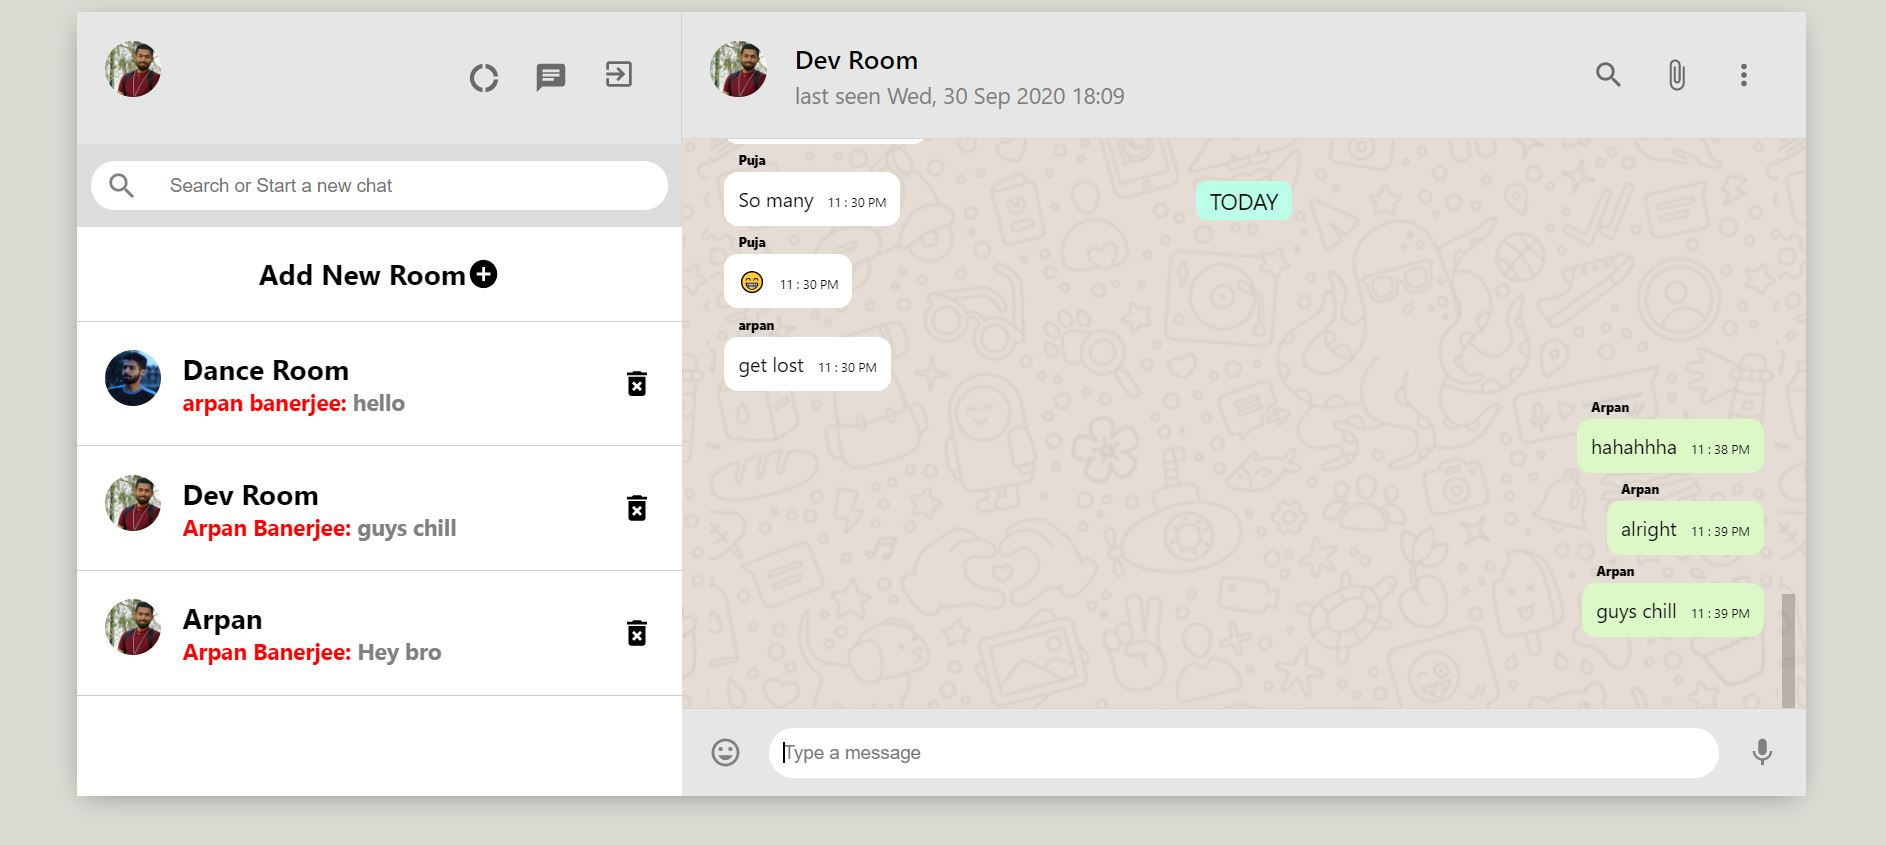
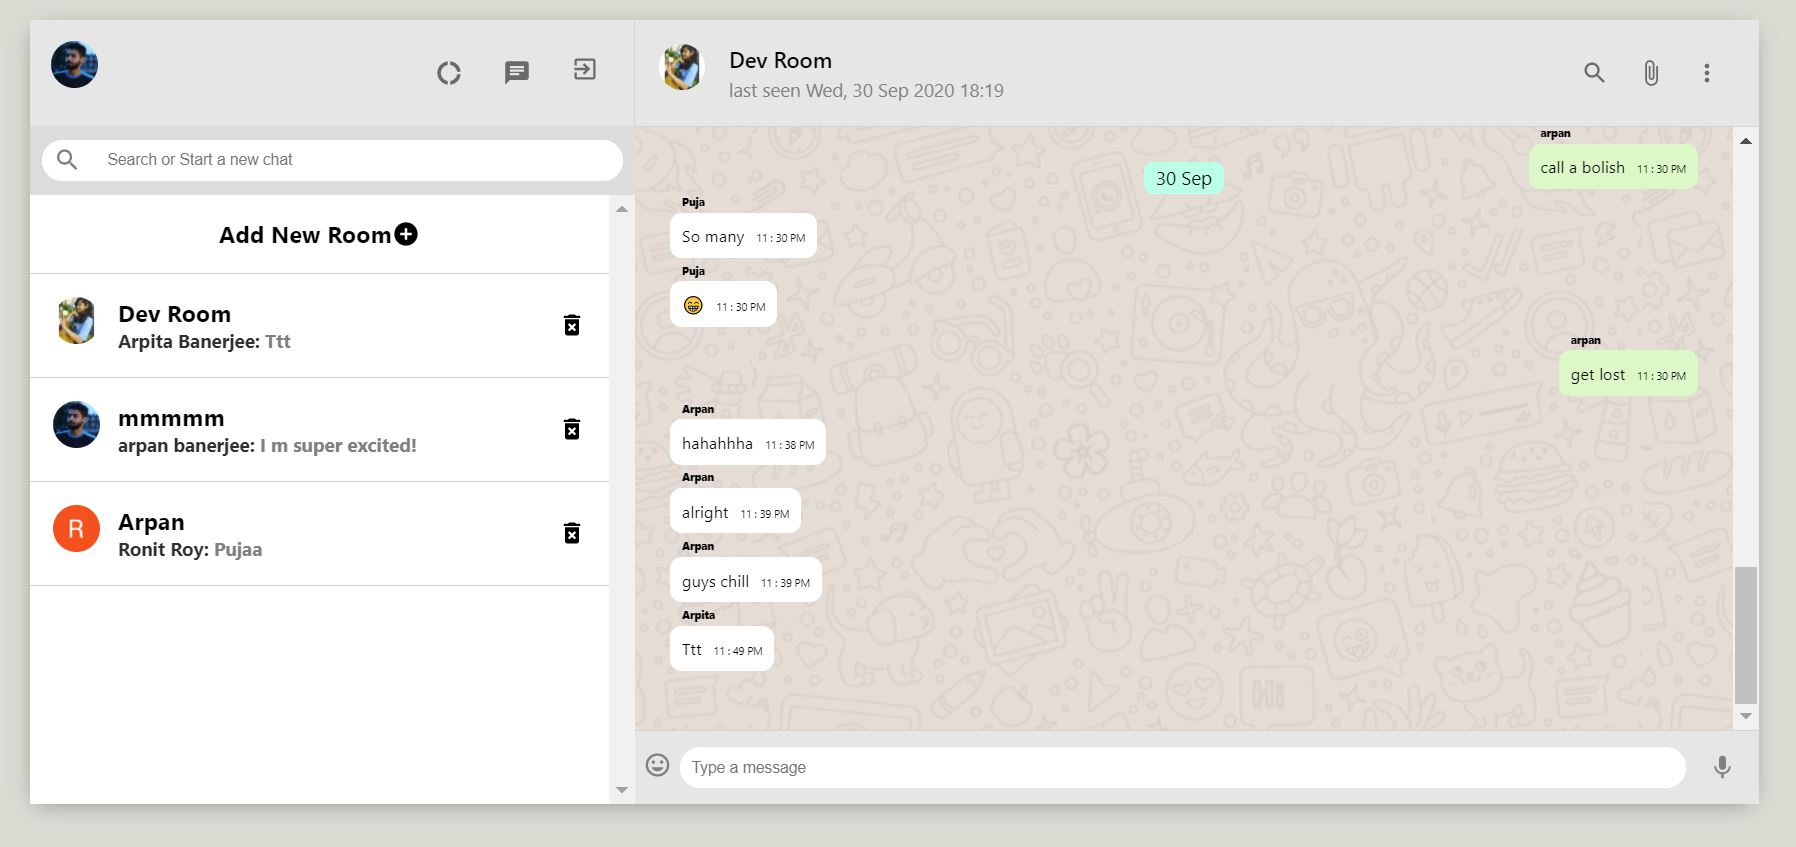
made some styling changes

Changed region(s): [[0.0, 0.0, 0.9978, 0.9538], [0.6236, 0.1846, 0.686, 0.2769]]

diff --git a/src/Sidebar.css b/src/Sidebar.css
@@ -1,96 +1,94 @@
-.sidebar{
-    display: flex;
-    flex-direction: column;
-    flex: 0.35;
+.sidebar {
+  display: flex;
+  flex-direction: column;
+  flex: 0.35;
 }
-.sidebar__header{
-    display: flex;
-    justify-content: space-between;
-    padding: 20px;
-    border-right: 1px solid lightgray;
+.sidebar__header {
+  display: flex;
+  justify-content: space-between;
+  padding: 18px;
+  border-right: 1px solid lightgray;
 }
-.sidebar__search{
-    display: flex;
-    align-items: center;
-    background-color: #dadadace;
-    height: 39px;
-    padding: 10px;
+.sidebar__search {
+  display: flex;
+  align-items: center;
+  background-color: #dadadace;
+  height: 39px;
+  padding: 10px;
 }
-.sidebar__searchContainer{
-    display: flex;
-    align-items: center;
-    background-color: white;
-    width: 100%;
-    height:35px;
-    border-radius:20px;
+.sidebar__searchContainer {
+  display: flex;
+  align-items: center;
+  background-color: white;
+  width: 100%;
+  height: 35px;
+  border-radius: 20px;
 }
-.sidebar__searchContainer .MuiSvgIcon-root{
-    color: gray;
-    padding: 10px;
+.sidebar__searchContainer .MuiSvgIcon-root {
+  color: gray;
+  padding: 10px;
 }
-.sidebar__searchContainer input{
-    border:none;
-    margin-left: 10px;
-    width: 80%;
- 
+.sidebar__searchContainer input {
+  border: none;
+  margin-left: 10px;
+  width: 80%;
 }
-.sidebar__searchContainer input:focus{
-    border: none;
-    outline: none;
+.sidebar__searchContainer input:focus {
+  border: none;
+  outline: none;
 }
-.sidebar__headerRight{
-    display: flex;
-    align-items: center;
-    justify-content: space-between;
-    min-width: 10vw;
+.sidebar__headerRight {
+  display: flex;
+  align-items: center;
+  justify-content: space-between;
+  min-width: 10vw;
 }
-.sidebar__headerRight  >.MuiSvgIcon-root{
-    margin-right:2vw;
-    font-size: 24px !important;
+.sidebar__headerRight > .MuiSvgIcon-root {
+  margin-right: 2vw;
+  font-size: 24px !important;
 }
-.sidebar__chats{
+.sidebar__chats {
+  flex: 1;
+  background-color: white;
+  overflow: scroll;
+  position: relative;
+  overflow-x: hidden;
+}
+.hide__sidebar {
+  display: none;
+}
+.siderbar__wrapper {
+  display: flex;
+}
+.sidebar__greeting {
+  font-size: 14px;
+  font-weight: bolder;
+  color: red;
+}
+.mobile__tag {
+  color: white !important;
+  font-size: 10px;
+}
+@media (max-width: 628px) {
+  .sidebar {
     flex: 1;
-    background-color: white;
-    overflow:scroll;
-    position: relative;
-    overflow-x: hidden;
-}
-.hide__sidebar{
-    display: none;
-}
-.siderbar__wrapper{
-    display: flex;
-}
-.sidebar__greeting{
-    font-size:14px;
-    font-weight: bolder;
-    color: red;
-}
-.mobile__tag{
-    color: white !important;
-    font-size: 10px;
-}
-@media(max-width:628px){
-    .sidebar{
-        flex: 1;
-        margin-left: 0;
-    }
-    .sidebar__header{
-        flex: 1;
-        background-color: #075E54;
-    }
-    .sidebar__header button.MuiButtonBase-root.MuiIconButton-root {
-        color: white;
-    }
-    .siderbar__wrapper{
-        background-color: #075E54;
-    }
-    .siderbar__wrapper button.MuiButtonBase-root.MuiIconButton-root {
-        color: white;
-    }
-    button.MuiButtonBase-root.MuiIconButton-root.sidebar__burger.MuiIconButton-colorInherit.MuiIconButton-edgeStart {
-        margin-left: 0;
-        padding-left: 10px;
-    }
-
+    margin-left: 0;
+  }
+  .sidebar__header {
+    flex: 1;
+    background-color: #075e54;
+  }
+  .sidebar__header button.MuiButtonBase-root.MuiIconButton-root {
+    color: white;
+  }
+  .siderbar__wrapper {
+    background-color: #075e54;
+  }
+  .siderbar__wrapper button.MuiButtonBase-root.MuiIconButton-root {
+    color: white;
+  }
+  button.MuiButtonBase-root.MuiIconButton-root.sidebar__burger.MuiIconButton-colorInherit.MuiIconButton-edgeStart {
+    margin-left: 0;
+    padding-left: 10px;
+  }
 }

diff --git a/src/SidebarChat.css b/src/SidebarChat.css
@@ -1,81 +1,71 @@
-.sidebarChat{
-    display: flex;
-    padding: 20px;
-    cursor: pointer;
-    border-bottom: 1px solid rgb(211, 202, 202);
+.sidebarChat {
+  display: flex;
+  padding: 20px;
+  cursor: pointer;
+  border-bottom: 1px solid rgb(211, 202, 202);
 }
-.sidebarChat:hover{
-    background-color:#0fb45c;
-    color: white;
+.sidebarChat:hover {
+  background-color: #ebebeb;
 }
-.sidebarChat:hover .sidebar__lastMessageName{
-    color: black;
+.sidebarChat:hover .sidebar__lastMessageName {
+  color: black;
+}
+.sidebarChat:hover .sidebar__lastmessages__color {
+  color: rgb(43, 39, 39);
+}
+.sidebarChat h2 {
+  font-size: 18px;
+  margin-bottom: 0px;
+}
+.sidebarChat__info {
+  margin-left: 15px;
+}
+.sidebarChat__info__title {
+  display: flex;
+  width: 100%;
+  justify-content: space-between;
+}
+.sidebarChat__wrapper {
+  display: flex;
+}
+.sidebarChat a {
+  width: 97%;
+}
+.sidebarChat__delete {
+  display: flex;
+  align-items: center;
+}
+.sidebarChat__delete:hover {
+  color: red;
+  transform: scale(1.28);
+}
+a {
+  color: black;
+  text-decoration: none;
+}
+.sidebar__lastMessageName {
+  color: rgb(49, 48, 48);
+  /* font-weight:bolder; */
+}
+.addnew__chat {
+  display: flex;
+  justify-content: center;
+  align-items: center;
+}
+.sidebar__lastmessages__color {
+  font-weight: 700;
+  max-width: 30vw;
+  overflow: hidden;
+  text-overflow: ellipsis;
+  color: gray;
+  white-space: nowrap;
+}
 
-}
-.sidebarChat:hover .sidebar__lastmessages__color{
-    color: red;
-}
-.sidebarChat h2{
-    font-size: 20px;
-    margin-bottom: 0px;
-}
-.sidebarChat__info{
-    margin-left: 15px;
-}
-.sidebarChat__info__title{
-    display: flex;
-    width: 100%;
-    justify-content: space-between;
-}
-.sidebarChat__wrapper{
-    display: flex;
-    
-}
-.sidebarChat a{
- 
-        width: 97%;
-
-}
-.sidebarChat__delete{
-    display: flex;
-    align-items: center;
-}
-.sidebarChat__delete:hover{
-    color: red;
-    transform: scale(1.28);
-}
- a{
-    color:black;
-    text-decoration: none;
-
-}
-.sidebar__lastMessageName{
-    color:red;
-    /* font-weight:bolder; */
-}
-.addnew__chat{
-   display: flex;
-   justify-content: center;
-   align-items: center;
-}
-.sidebar__lastmessages__color{
-    font-weight: 700;
-    max-width: 30vw;
+@media (max-width: 628px) {
+  .sidebar__lastmessages__color {
+    max-width: 75vw;
     overflow: hidden;
-    text-overflow: ellipsis; 
-    color: gray;
+    text-overflow: ellipsis;
     white-space: nowrap;
-
-}
-.room__name:hover{
- 
-    color: white;
-}
-@media(max-width:628px){
-    .sidebar__lastmessages__color{
-        max-width:75vw;
-        overflow: hidden;
-        text-overflow: ellipsis; 
-        white-space: nowrap;
-    }
+  }
 }
